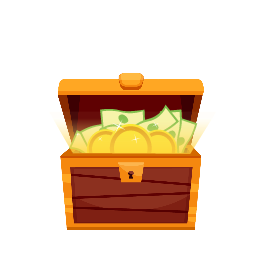
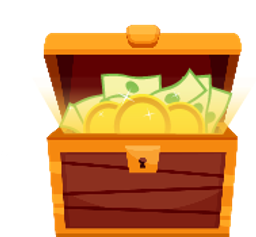
sohbet: hediye balonu büyüdü, görseller kırpıldı, dokununca kutu o hediyeyle açılıyor
Kullanıcı iki ekranı yan yana koyup gösterdi: "hem çok küçük hem tutarsız".
Haklıydı, iki ayrı sebebi vardı.

1) ÖLÇÜ ORANI TUTMUYORDU. Görsel 44 piksel, rakam 23 puntoydu — referansta
   görsel rakamın yaklaşık iki katı. Üstelik alıcı satırı sütunu iki parçaya
   bölünce rakam dikeyde ortadan kayıyordu. Görsel 64'e, rakam 30 puntoya
   çıktı; sütun dikeyde ortalandı, balonun iç boşluğu açıldı.

2) HER HEDİYE FARKLI BÜYÜKLÜKTE GÖRÜNÜYORDU. Asıl tutarsızlık buradaydı ve
   koddan değil VARLIKTAN geliyordu: her Lottie'nin kompozisyonunda farklı
   miktarda boş kenar var. Gülün etrafında bol boşluk, kaplanınkinde az; aynı
   ölçüdeki kutuda biri küçük biri büyük duruyordu. `lottie-png.js` artık
   şeffaf payı kırpıp yeniden ölçekliyor, yani hepsi kutuyu aynı oranda
   dolduruyor. Yedi görsel koyu zeminde yan yana kontrol edildi.
   Bu, hediye kutusu karolarını ve profil vitrinini de düzeltiyor.

3) SOHBETTEKİ HEDİYEYE DOKUNMA. Hediye balonu artık basılabilir: kutuyu O
   HEDİYE SEÇİLİ açıyor, aynı hediyeyi tekrar göndermek isteyen listede
   aramıyor. `GiftSheet` yeni bir `baslangicKod` alıyor ve seçimi YALNIZ
   açılışta uyguluyor — bağımlılığa `baslangicKod` koysaydım kullanıcı başka
   hediyeye dokunduğunda seçim geri zıplardı.

diff --git a/src/app/room.tsx b/src/app/room.tsx
@@ -278,6 +278,7 @@ function ChatRow({
   balonTema,
   onSelfPress,
   onTapUser,
+  onTapHediye,
 }: {
   m: ChatMsg;
   userName: string;
@@ -285,6 +286,8 @@ function ChatRow({
   privileged: boolean;
   /** Gönderenin kuşandığı sohbet balonu teması (056) */
   balonTema?: string | null;
+  /** Sohbetteki hediyeye dokunulunca — kutuyu o hediye seçili açar. */
+  onTapHediye?: (kod: string) => void;
   onSelfPress: () => void;
   onTapUser?: (m: ChatMsg) => void;
 }) {
@@ -345,24 +348,29 @@ function ChatRow({
           // kapliyordu; sohbette dikkat cekmiyordu. Yeni duzen: gorsel
           // buyuk, adet iri ve altin. Hediye adini yazmiyoruz, gorsel
           // zaten soyluyor.
-          <View style={[styles.bubble, styles.hediyeBalonu, balonStil]}>
+          <Pressable
+            onPress={() => { if (m.hediye?.kod) { haptic.light(); onTapHediye?.(m.hediye.kod); } }}
+            style={[styles.bubble, styles.hediyeBalonu, balonStil]}
+          >
+            {/* OLCU ORANI: gorsel rakamin yaklasik iki kati. Ilk denemede
+                gorsel 44, rakam 23 punto idi ve tutarsiz duruyordu —
+                kullanici referansla yan yana koyup gosterdi. */}
             {hediyePng ? (
-              <Image source={hediyePng} style={{ width: 44, height: 44 }} contentFit="contain" transition={0} />
+              <Image source={hediyePng} style={{ width: 64, height: 64 }} contentFit="contain" transition={0} />
             ) : (
-              <Txt size={30}>{m.hediye.emoji}</Txt>
+              <Txt size={44}>{m.hediye.emoji}</Txt>
             )}
-            <View style={{ minWidth: 0, flexShrink: 1 }}>
-              <Txt weight="displayBold" size={23} color={C.gold2} style={styles.hediyeAdet}>×{m.hediye.adet}</Txt>
+            <View style={{ justifyContent: "center", minWidth: 0, flexShrink: 1 }}>
+              <Txt weight="displayBold" size={30} color={C.gold2} style={styles.hediyeAdet}>×{m.hediye.adet}</Txt>
               {/* Alici KALIYOR: odada sekiz koltuk var ve "Herkese" secenegi
-                  de mevcut, kime gittigi gercek bir bilgi. Ama artik
-                  ikincil — kucuk ve sonuk. */}
+                  de mevcut, kime gittigi gercek bir bilgi. Ama ikincil. */}
               {!!m.hediye.kime && (
-                <Txt weight="semibold" size={9.5} color={C.dim} numberOfLines={1} style={{ marginTop: -1 }}>
+                <Txt weight="semibold" size={10} color={C.dim} numberOfLines={1} style={{ marginTop: 1 }}>
                   → {m.hediye.kime}
                 </Txt>
               )}
             </View>
-          </View>
+          </Pressable>
         ) : (
           <View style={[styles.bubble, balonStil]}>
             <Txt weight={balonT ? "semibold" : undefined} size={12.5} color={balonT ? balonT.yazi : "#EDEBF2"} lh={1.4}>
@@ -919,6 +927,16 @@ export default function RoomScreen() {
   const [reportDetail, setReportDetail] = useState("");
   const [reportDone, setReportDone] = useState(false);
   const [giftOpen, setGiftOpen] = useState(false);
+  /** Hediye kutusu acilirken secili gelecek hediye kodu (sohbetten dokunma). */
+  const [giftSecim, setGiftSecim] = useState<string | null>(null);
+  /**
+   * Sohbetteki hediyeye dokunma: kutuyu O HEDIYE secili aciyor. Ayni hediyeyi
+   * tekrar gondermek isteyen listede aramasin diye.
+   */
+  const hediyeyeDokunuldu = useCallback((kod: string) => {
+    setGiftSecim(kod);
+    setGiftOpen(true);
+  }, []);
   // Hediye seslerini oda acilirken hazirla. Android yuklenmemis bir
   // oynaticiya play() denince sesin basini yiyor; ilk hediyede o beklemeyi
   // yasamamak icin oynaticilar onceden kuruluyor.
@@ -2464,6 +2482,7 @@ export default function RoomScreen() {
                     balonTema={m.myOwn ? kusanili.balon : uyeler?.balon}
                     onSelfPress={openMyCard}
                     onTapUser={openChatUserCard}
+                    onTapHediye={hediyeyeDokunuldu}
                   />
                 );
               })}
@@ -2776,6 +2795,7 @@ export default function RoomScreen() {
             : occupants.map((o) => ({ name: o.name, host: o.host, mod: o.mod }))
         }
         onSend={sendGift}
+        baslangicKod={giftSecim}
         onBakiyeYukle={() => { setGiftOpen(false); router.navigate("/wallet"); }}
       />
 
@@ -3119,7 +3139,7 @@ const styles = StyleSheet.create({
   // İçerik kadar geniş: eskiden alignSelf "stretch" idi, kısa bir hediye adı
   // için bile satır sohbetin tamamını kaplıyordu.
   ayrildiCip: { paddingHorizontal: 7, paddingVertical: 2, borderRadius: 7, borderWidth: 1, borderColor: "rgba(255,255,255,.12)", backgroundColor: "rgba(255,255,255,.05)" },
-  hediyeBalonu: { flexDirection: "row", alignItems: "center", gap: 10, paddingVertical: 7, paddingHorizontal: 11 },
+  hediyeBalonu: { flexDirection: "row", alignItems: "center", gap: 13, paddingVertical: 9, paddingHorizontal: 14 },
   // Hafif egim: rakami bir rozet gibi gosteriyor, duz yazidan ayiriyor.
   hediyeAdet: { letterSpacing: 0.5, transform: [{ skewX: "-8deg" }] },
   sysNotice: { borderRadius: 14, borderWidth: 1, paddingVertical: 10, paddingHorizontal: 12 },

diff --git a/src/sheets/GiftSheet.tsx b/src/sheets/GiftSheet.tsx
@@ -42,10 +42,17 @@ export function GiftSheet({
   recipients = [],
   onSend,
   onBakiyeYukle,
+  baslangicKod,
 }: {
   visible: boolean;
   onClose: () => void;
   recipients?: HediyeAlicisi[];
+  /**
+   * Acilirken secili gelecek hediyenin `kod`u. Sohbetteki hediyeye
+   * dokununca kutu bu hediye secili aciliyor — kullanici ayni hediyeyi
+   * tekrar gondermek icin listede aramasin.
+   */
+  baslangicKod?: string | null;
   /** hediyeDbId varsa gönderim GERÇEKTEN yapılır (bakiyeden düşer). */
   onSend: (gift: Gift, qty: number, recipient: string, aliciId?: number, hediyeDbId?: number) => void;
   onBakiyeYukle?: () => void;
@@ -72,6 +79,15 @@ export function GiftSheet({
   useEffect(() => {
     if (tekAlici) setHedef(1);
   }, [tekAlici]);
+
+  /**
+   * Disaridan gelen secim. Yalniz sayfa ACILIRKEN uygulaniyor; `visible`
+   * bagimliliktaki tek tetik, yoksa kullanici baska hediyeye dokundugunda
+   * secim geri ziplardi.
+   */
+  useEffect(() => {
+    if (visible && baslangicKod) setSel(baslangicKod);
+  }, [visible]); // eslint-disable-line react-hooks/exhaustive-deps
 
   useEffect(() => {
     if (!visible || !isSupabaseConfigured) return;

diff --git a/scripts/lottie-png.js b/scripts/lottie-png.js
@@ -135,7 +135,14 @@ function vektordenPng(j) {
       const j = JSON.parse(fs.readFileSync(girdi, "utf8"));
       const dizi = kareDizisiMi(j);
       j.__oran = oran;
-      const png = dizi ? await kareDizisindenPng(j, oran) : vektordenPng(j);
+      const ham = dizi ? await kareDizisindenPng(j, oran) : vektordenPng(j);
+      // SEFFAF PAYI KIRP. Her Lottie'nin kompozisyonunda farkli miktarda bos
+      // kenar var: gulun etrafinda bol bosluk, kaplaninkinde az. Kirpilmazsa
+      // ayni olcudeki karoda hediyeler FARKLI buyuklukte gorunuyor —
+      // kullanicinin "tutarsiz" dedigi seyin bir parcasi buydu. Kirpip
+      // yeniden olceklemek hepsini kutuyu ayni oranda dolduruyor.
+      const png = await sharp(ham).trim().resize(boyut, boyut, { fit: "inside" })
+        .png({ compressionLevel: 9 }).toBuffer();
       fs.writeFileSync(cikti, png);
       const kb = (n) => (n / 1024).toFixed(0).padStart(5);
       console.log("  " + kod.padEnd(8) + kb(fs.statSync(girdi).size) + " KB json ->" + kb(png.length) +
